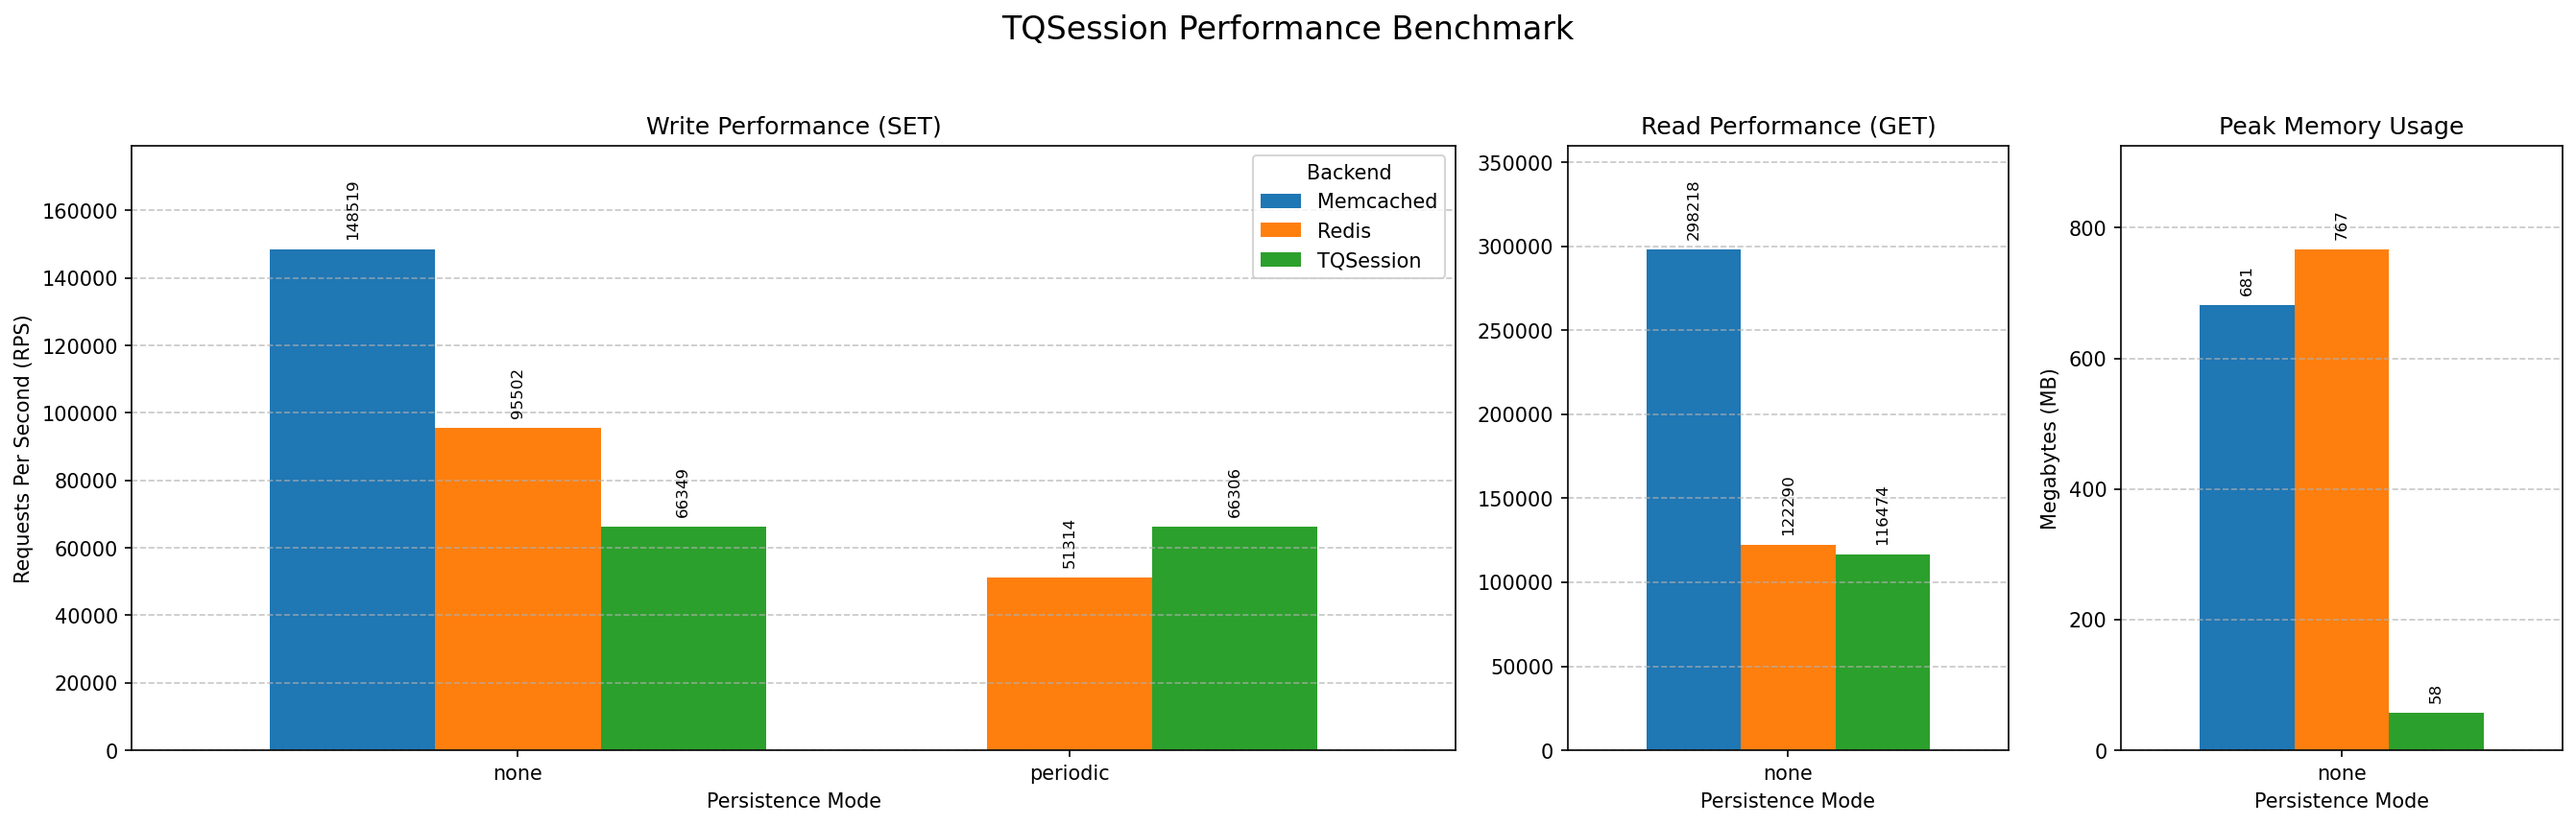
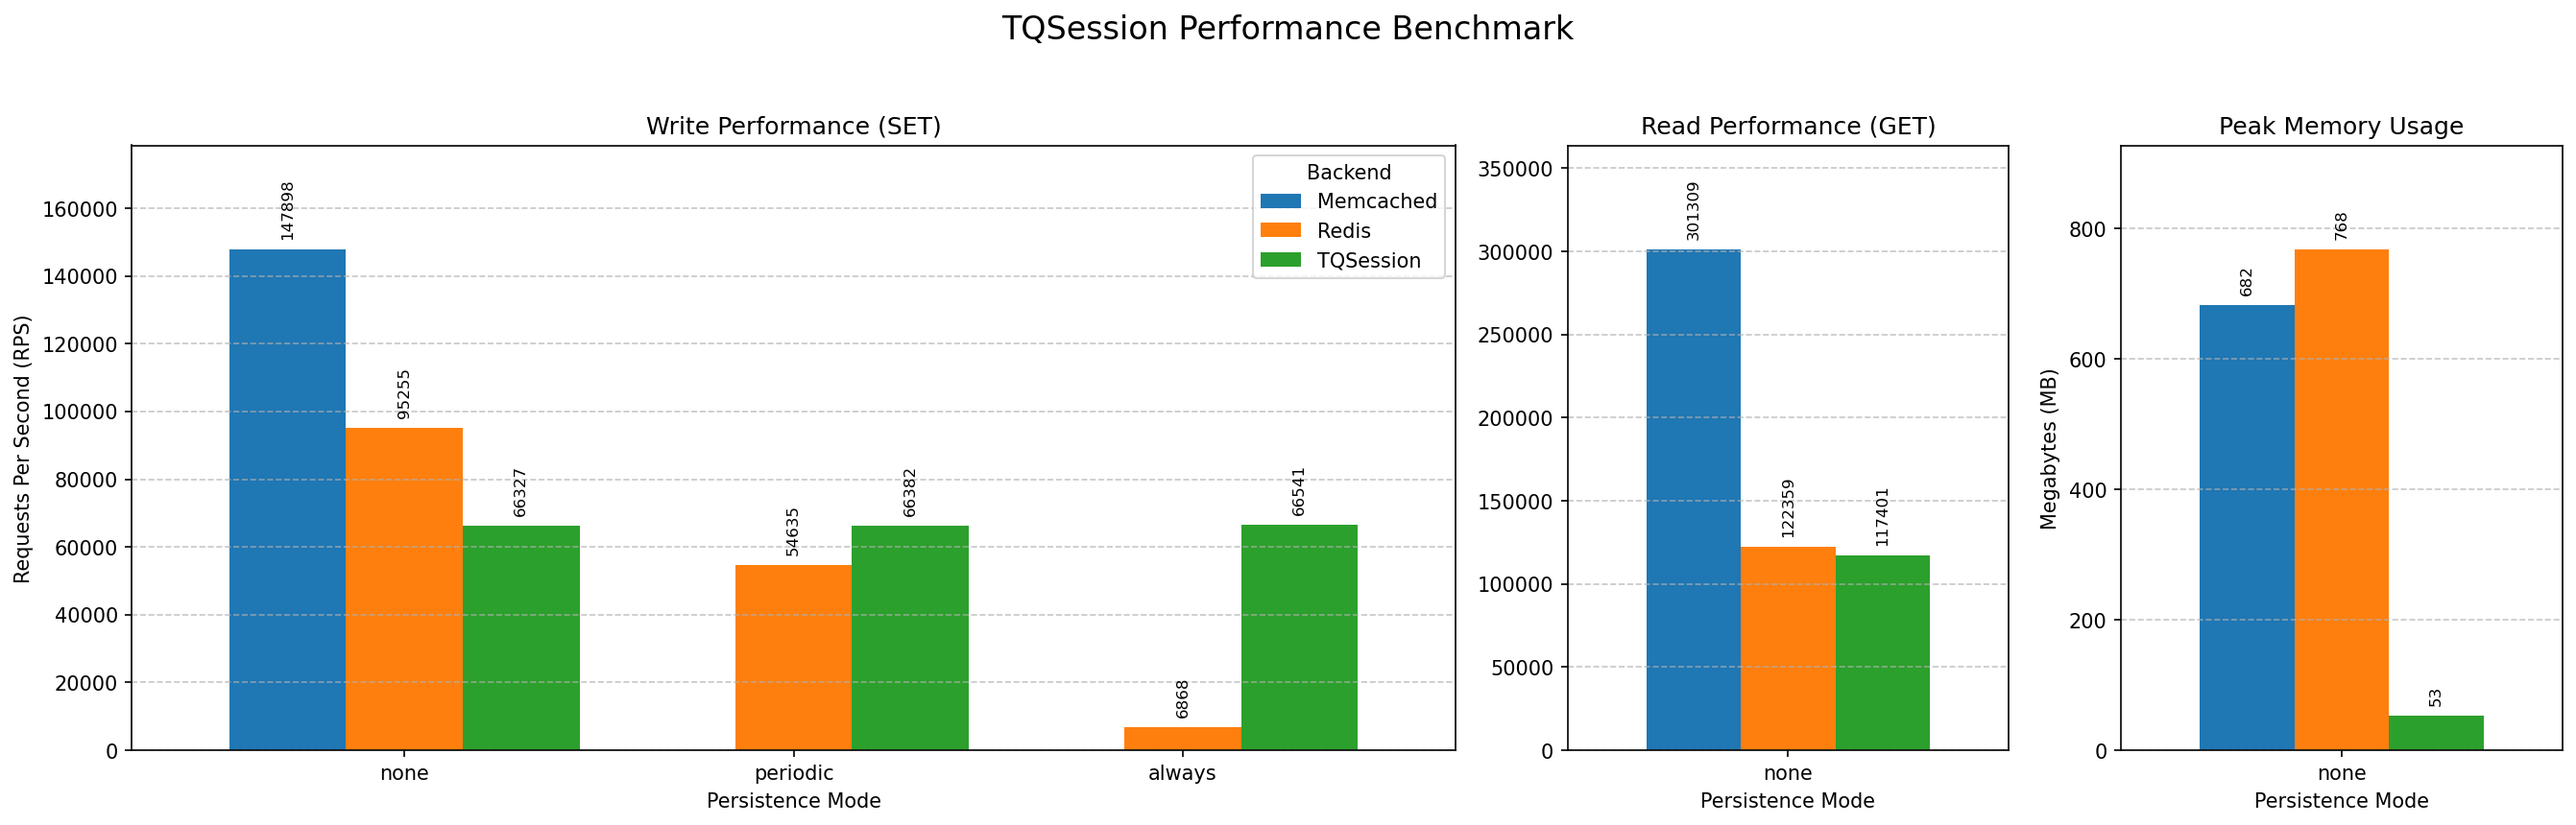
update

diff --git a/pkg/tqsession/storage.go b/pkg/tqsession/storage.go
@@ -51,22 +51,24 @@ type KeyRecord struct {
 
 // Storage handles all file I/O for the cache
 type Storage struct {
-	dataDir   string
-	keysFile  *os.File
-	dataFiles [NumBuckets]*os.File
+	dataDir    string
+	keysFile   *os.File
+	dataFiles  [NumBuckets]*os.File
+	syncAlways bool // If true, fsync after every write
 
 	// Bucket sizes: 1KB, 2KB, 4KB, ..., 64MB
 	bucketSizes [NumBuckets]int
 }
 
 // NewStorage creates a new storage instance
-func NewStorage(dataDir string) (*Storage, error) {
+func NewStorage(dataDir string, syncAlways bool) (*Storage, error) {
 	if err := os.MkdirAll(dataDir, 0755); err != nil {
 		return nil, fmt.Errorf("failed to create data dir: %w", err)
 	}
 
 	s := &Storage{
-		dataDir: dataDir,
+		dataDir:    dataDir,
+		syncAlways: syncAlways,
 	}
 
 	// Calculate bucket sizes
@@ -191,6 +193,9 @@ func (s *Storage) WriteKeyRecord(keyId int64, rec *KeyRecord) error {
 	binary.LittleEndian.PutUint64(buf[1052:1060], uint64(rec.SlotIdx))
 
 	_, err := s.keysFile.WriteAt(buf, offset)
+	if err == nil && s.syncAlways {
+		err = s.keysFile.Sync()
+	}
 	return err
 }
 
@@ -239,6 +244,9 @@ func (s *Storage) WriteDataSlot(bucket int, slotIdx int64, data []byte) error {
 	copy(buf[DataHeaderSize:], data)
 
 	_, err := s.dataFiles[bucket].WriteAt(buf, offset)
+	if err == nil && s.syncAlways {
+		err = s.dataFiles[bucket].Sync()
+	}
 	return err
 }
 

diff --git a/pkg/tqsession/tqsession.go b/pkg/tqsession/tqsession.go
@@ -55,7 +55,7 @@ type Cache struct {
 
 // New creates a new TQSession cache
 func New(cfg Config) (*Cache, error) {
-	storage, err := NewStorage(cfg.DataDir)
+	storage, err := NewStorage(cfg.DataDir, cfg.SyncStrategy == SyncAlways)
 	if err != nil {
 		return nil, fmt.Errorf("failed to create storage: %w", err)
 	}

diff --git a/README.md b/README.md
@@ -41,33 +41,16 @@ tqsession [options]
 | Flag             | Default     | Description                                                    |
 |------------------|-------------|----------------------------------------------------------------|
 | `-config`        |             | Path to INI config file (overrides other flags)                |
-| `-data-dir`      | `data`      | Directory for persistent data files                            |
 | `-listen`        | `:11211`    | Address to listen on (`[host]:port`)                           |
-| `-sync-mode`     | `periodic`  | Sync mode: `none`, `periodic`                                  |
-| `-sync-interval` | `1s`        | Interval between fsync calls (when periodic)                   |
+| `-data-dir`      | `data`      | Directory for persistent data files                            |
 | `-default-ttl`   | `0`         | Default TTL for keys (`0` = no expiry)                         |
-| `-max-data-size` | `67108864`  | Max live data size in bytes for LRU eviction (`0` = unlimited) |
+| `-max-data-size` | `64MB`      | Max live data size in bytes for LRU eviction (`0` = unlimited) |
+| `-sync-mode`     | `periodic`  | Sync mode: `none`, `periodic`, `always`                        |
+| `-sync-interval` | `1s`        | Interval between fsync calls (when periodic)                   |
 
 **Fixed limits:** Max key size is 1KB, max value size is 64MB.
 
-### Config File
-
-You can use an INI-style config file instead of CLI flags:
-
-```ini
-# tqsession.conf
-[server]
-listen = :11211
-
-[storage]
-data-dir = data
-default-ttl = 0s
-max-data-size = 64MB
-sync-mode = periodic
-sync-interval = 1s
-```
-
-See [cmd/tqsession/tqsession.conf](cmd/tqsession/tqsession.conf) for a complete example.
+NB: You may also use a config file instead of CLI flags (see [cmd/tqsession/tqsession.conf](cmd/tqsession/tqsession.conf)).
 
 ## PHP Configuration
 
@@ -77,6 +60,8 @@ Configure PHP to use TQSession as the session handler:
 session.save_handler = memcached
 session.save_path = "localhost:11211"
 ```
+
+NB: Set "max-data-size = 0" to prevent data loss.
 
 ## Benchmarks
 

diff --git a/PROJECT_BRIEF.md b/PROJECT_BRIEF.md
@@ -50,7 +50,7 @@ Each record is exactly **1060 bytes** at offset `keyId * 1060`:
 
 | Field          | Size    | Description                                               |
 |----------------|---------|-----------------------------------------------------------|
-| `free`         | 1 byte  | `0x00` = in use, `0x01` = deleted/free                    |
+| `free`         | 1 byte  | Reserved (continuous compaction keeps file compact)       |
 | `keyLen`       | 2 bytes | Actual key length (uint16, 0-1024)                        |
 | `key`          | 1024 bytes | Key string, null-padded                                |
 | `lastAccessed` | 8 bytes | Unix timestamp (int64), for LRU                           |
